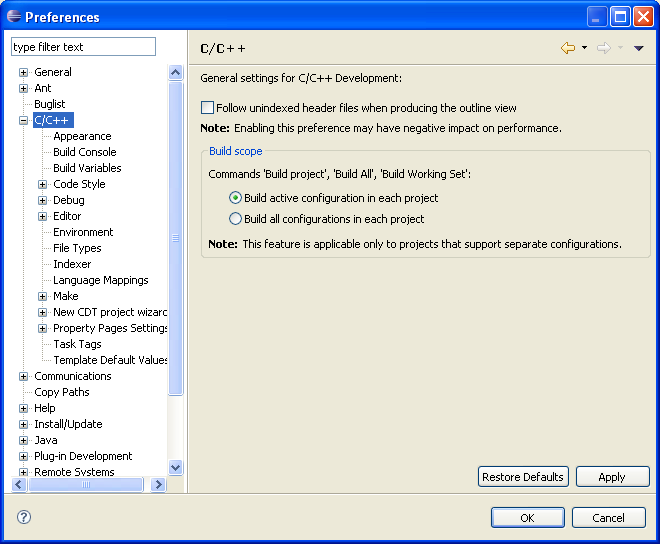
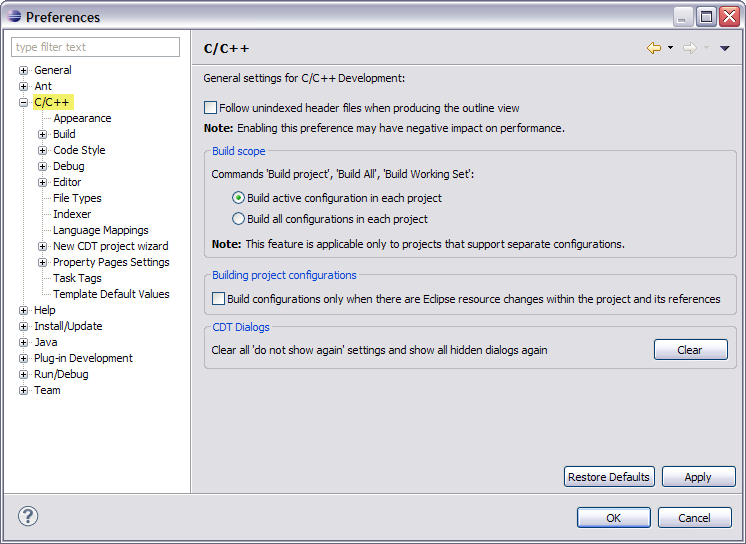
Revised C/C++ preferences panel and image for 7.0

Changed region(s): [[0.0, 0.0, 1.0, 1.0]]

diff --git a/all/org.eclipse.cdt.doc.user/reference/cdt_u_c_pref.htm b/all/org.eclipse.cdt.doc.user/reference/cdt_u_c_pref.htm
@@ -11,56 +11,38 @@
 
 <h1>C/C++ preferences</h1>
 
-<p>The <strong>C/C++</strong> preference dialog box allows you to make changes to your C/C++ environment.</p>
+<p>The <strong>C/C++</strong> preference panel allows you to make changes to your C/C++ environment. Click <b>Window > Preferences > C/C++</b> to view.</p>
 <p><img src="../images/c_cpp_preferences.png" alt="C/C++ Main Preferences Window"></p>
 
 <table width="600px" cellpadding="5" cellspacing="0" border="1" >
 	<caption><strong>C/C++ Preference Options</strong></caption>
 	<colgroup>
-		<col width="30%" valign="top" >
+		<col width="35%" valign="top" >
 		<col width="70%" valign="top" >
 	</colgroup>
 	<tbody>
 		<tr>
-			<td width="30%" valign="top"><strong>Follow unindexed header files when producing the outline view</strong></td>
+			<td width="35%" valign="top"><strong>Follow unindexed header files when producing the outline view</strong></td>
 			<td valign="top">Activate to do a more exhaustive search of header paths to build a more complete outline view.</td>
+		</tr>
+		<tr>
+			<td width="35%" valign="top"><b>Build active configuration in each project</b></td>
+			<td valign="top">Activate to always build only the active configuration within a project.</td>
+		</tr>
+		<tr>
+			<td width="35%" valign="top"><b>Build all configurations in each project</b></td>
+			<td valign="top">Activate to always build all the configurations within a project.</td>
+		</tr>
+		<tr>
+			<td width="35%" valign="top"><b>Build configurations only when there are Eclipse resource changes within the project and its resources</b></td>
+			<td valign="top">Activate to build only when there are have been changes to any project and Eclipse resources.</td>
+		</tr>
+		<tr>
+			<td width="35%" valign="top"><b>Clear all 'do not show again' settings and show all hidden dialogs again</b></td>
+			<td valign="top">Activate to reset all alert settings and show all hidden dialogs.</td>
 		</tr>
 	</tbody>
 </table>
-
-<h2>C/C++ Submenu Items</h2>
-
-<p><dl>
-  <dt>Appearance</dt>
-  <dd>Controls appearance of C elements in viewers.</dd>
-  <dt>Build Console</dt>
-  <dd>Preferences for customize the appearance of the Build Console view.</dd>
-  <dt>CDT build variables</dt>
-  <dd>Displays a list of build variables (ex-build macros) available in CDT.</dd>
-  <dt>Code Style</dt>
-  <dd>Defines default code style. You can select one of existing profiles or set your own style.</dd>
-  <dt>Debug</dt>
-  <dd>Preferences for customizing the C/C++ debugger.</dd>
-  <dt>Editor</dt>
-  <dd>Preferences for customizing the C/C++ editor.</dd>
-  <dt>Environment</dt>
-  <dd>Displays a list of CDT-specific environment variables</dd>
-  <dt>File Types</dt>
-  <dd>Define which file extensions are linked to specific languages</dd>
-  <dt>Indexer</dt>
-  <dd>Define global settings for indexer</dd>
-  <dt>Language mappings</dt>
-  <dd>Set correspondence between content types and available languages.</dd>
-  <dt>Make</dt>
-  <dd>Settings specific for 'make' builder</dd>
-  <dt>New CDT project wizard</dt>
-  <dd>Controls behaviour of New Project Wizard</dd>
-  <dt>Property Pages settings</dt>
-  <dd>Controls behaviour of property pages</dd>
-  <dt>Template Default Values</dt>
-  <dd>Defines values to be used in CDT project templates</dd>
-</dl></p>
-
 
 <p><img border="0" src="../images/ngref.gif" ALT="Related reference" width="143" height="21">
 <br>
